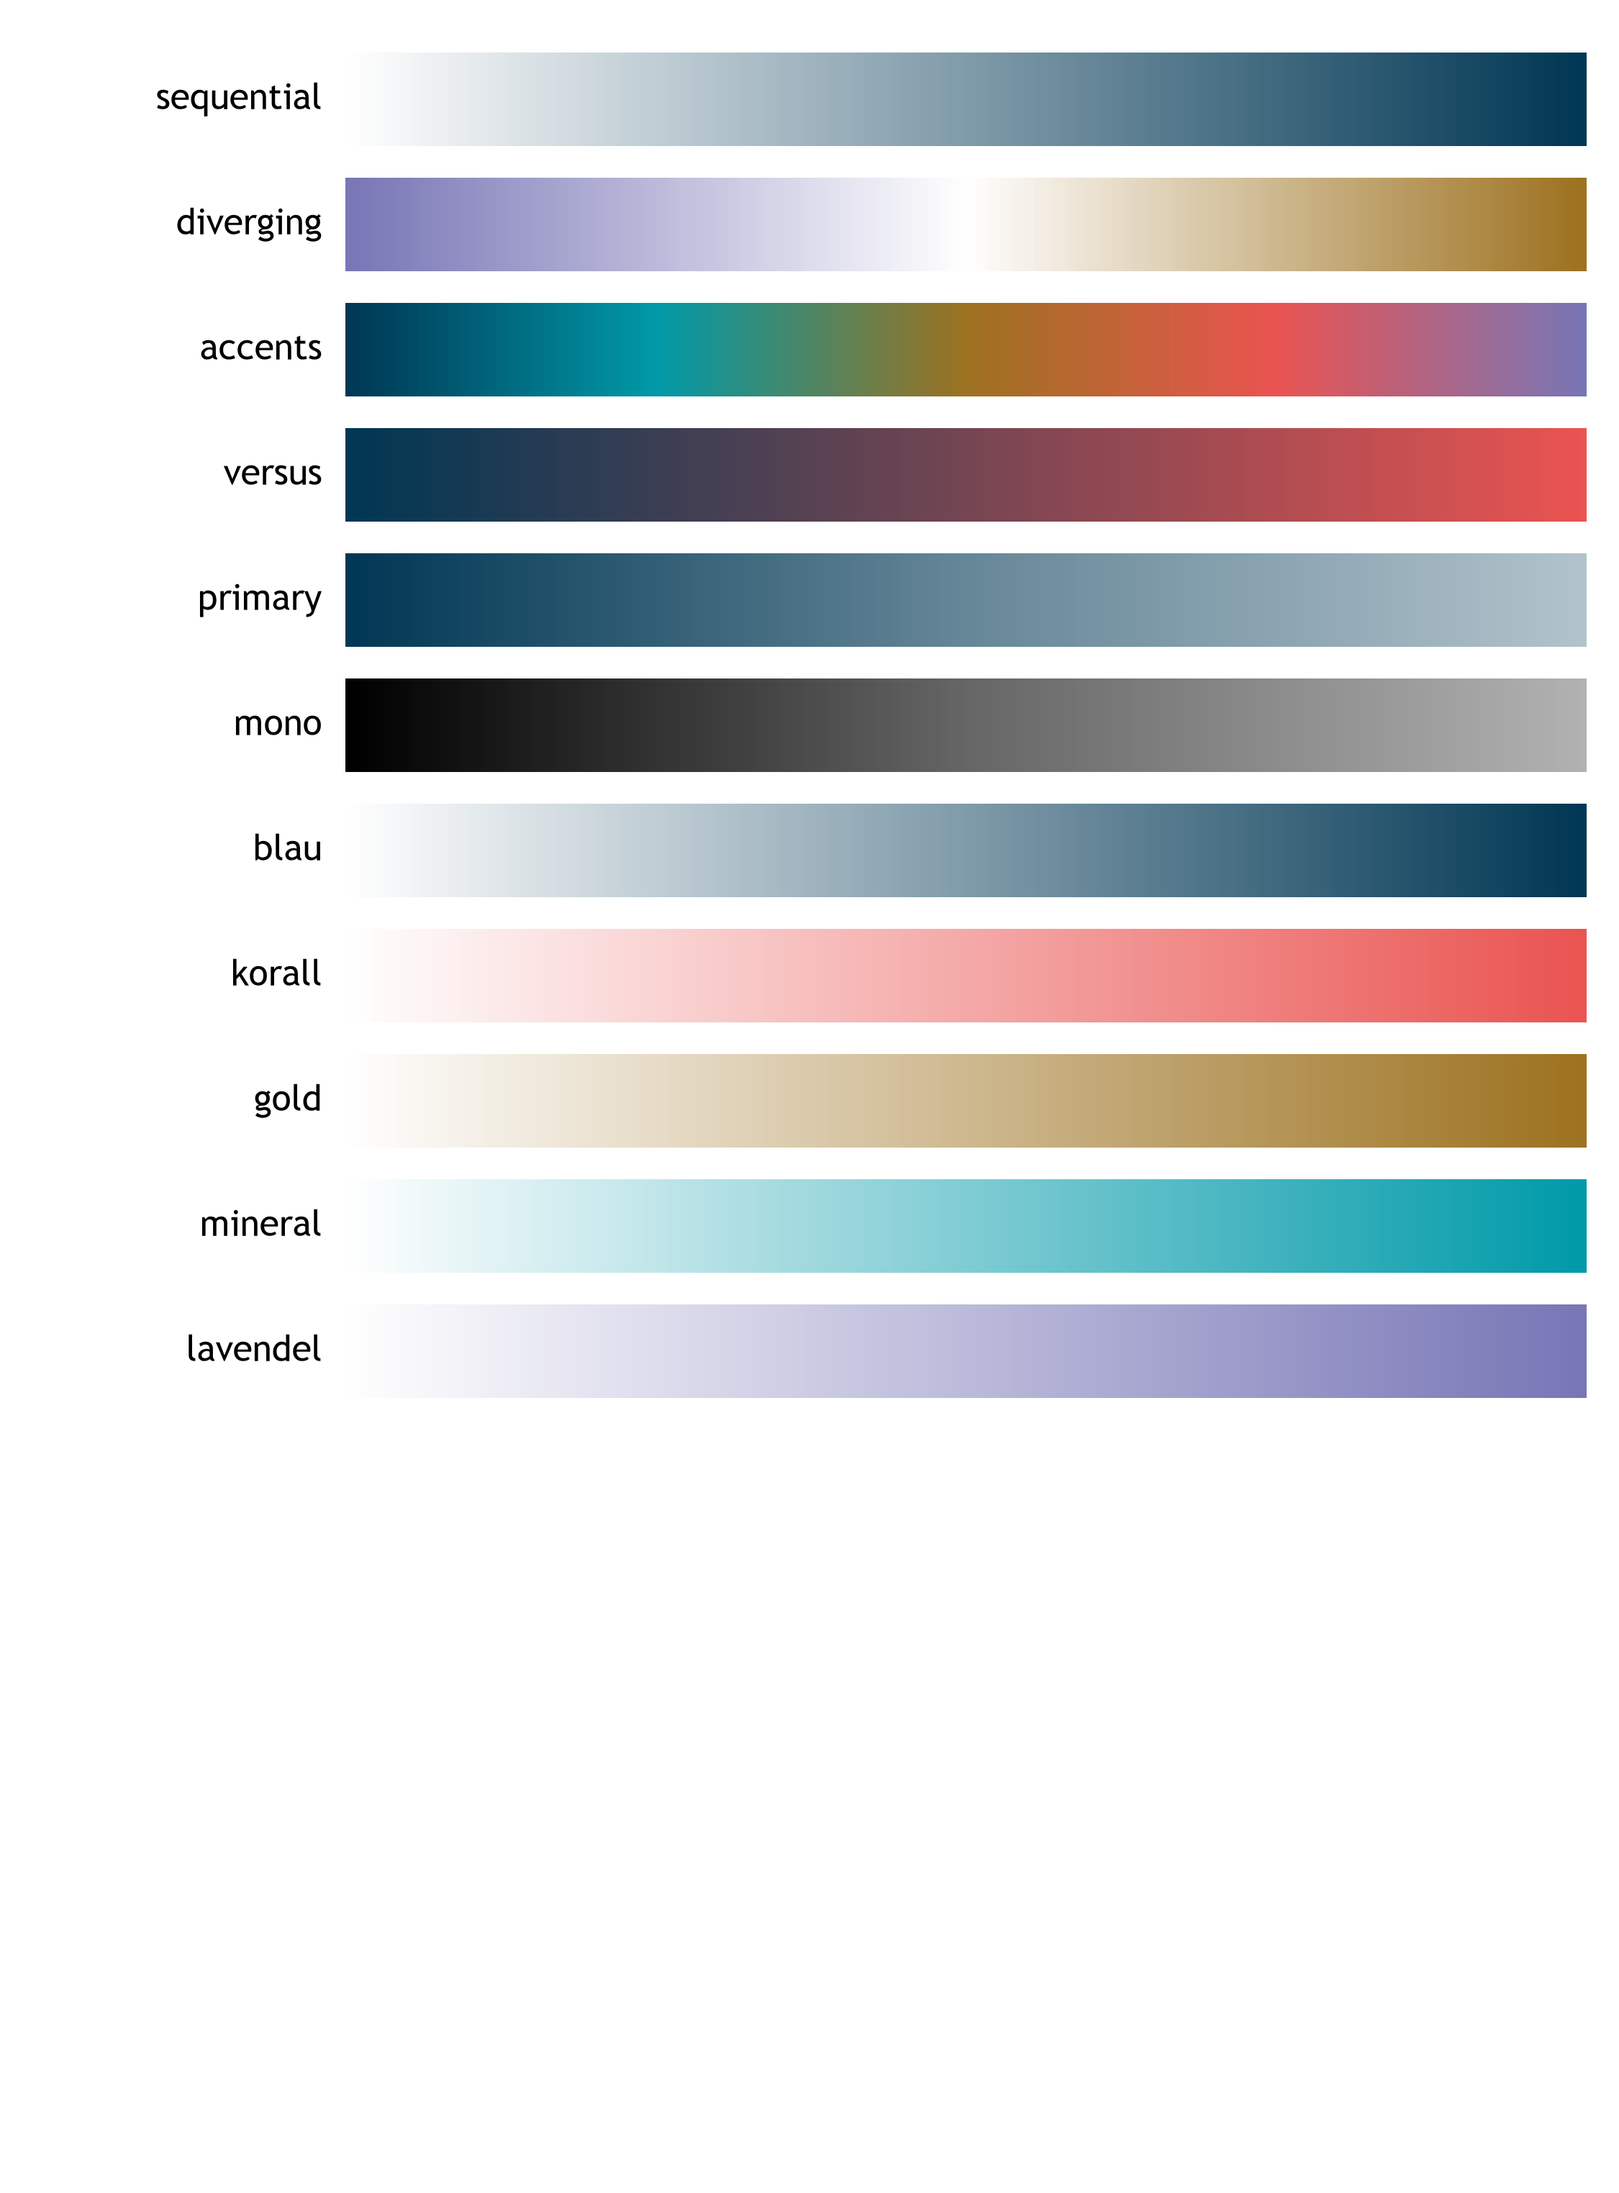
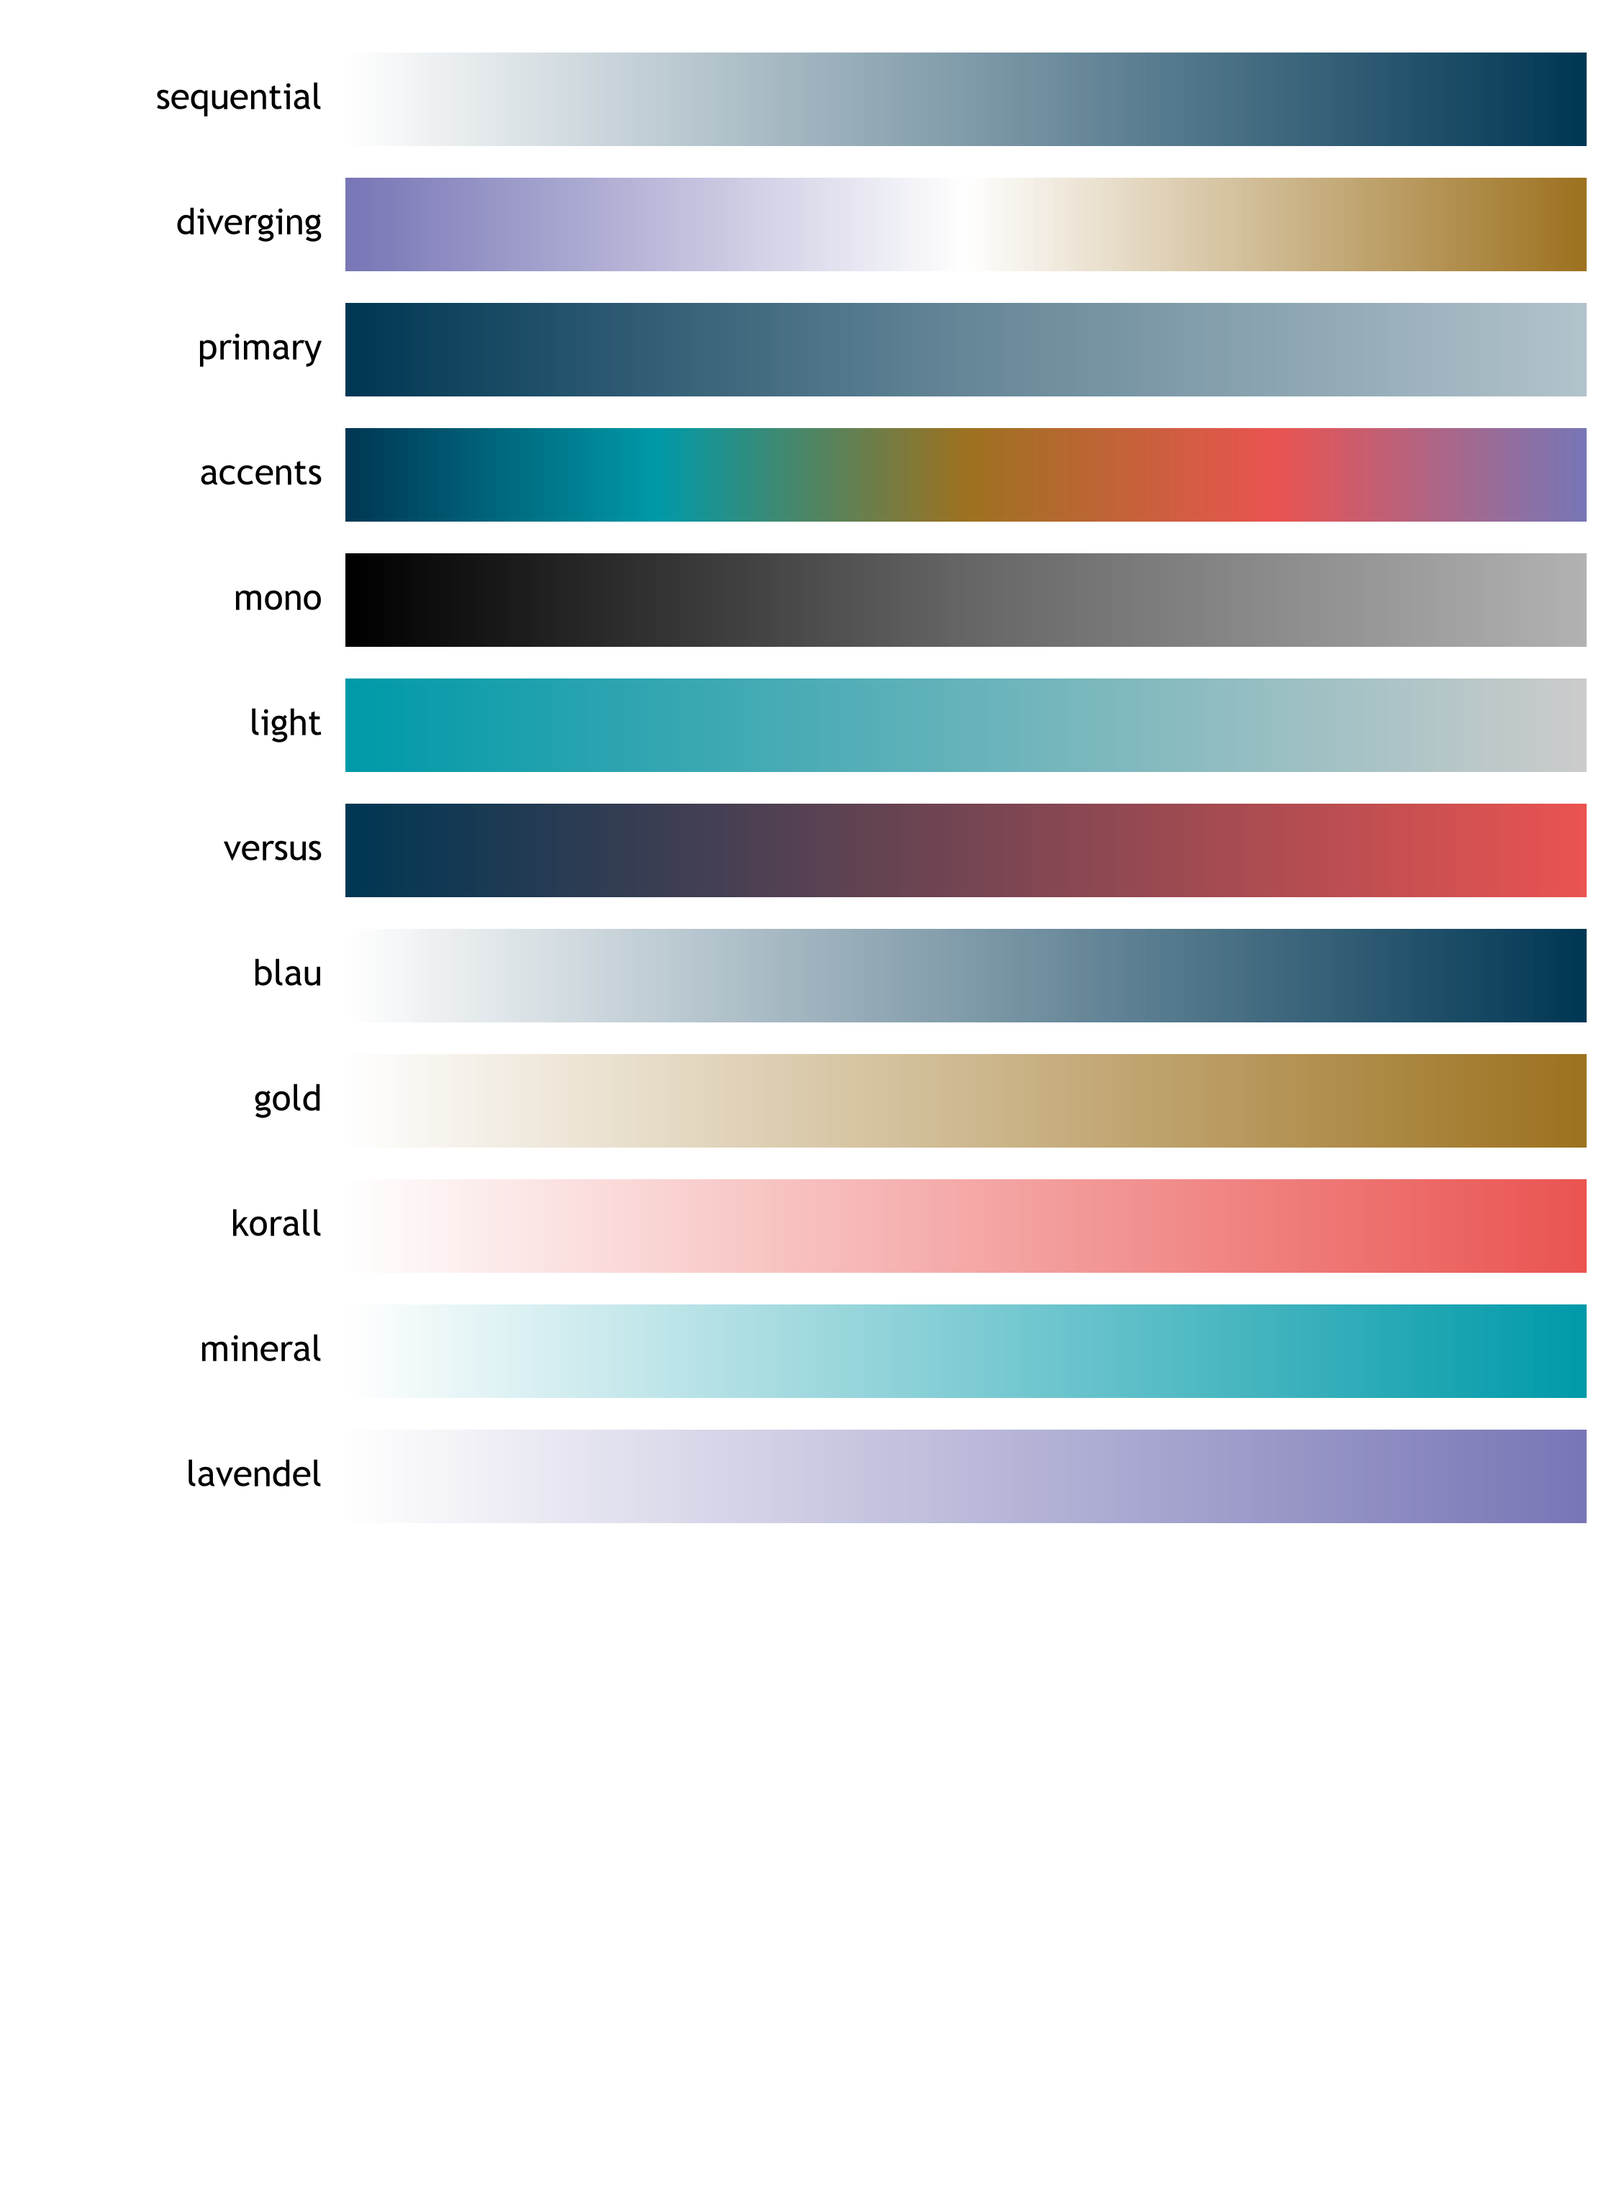
Balanced Charité diverging scale; BIH light palette; cmap preview in README
- Charité diverging role: SECOND_LBLUE → white → ROT (L* 50 / 49) instead
  of SECOND_DBLUE → white → KORALL (15 / 57). Palettes are unchanged.
- BIH: new "light" palette (Mineral vs 20 % black), like Charité's light.
  Palettes listed in the same order as the matching Charité ones
  (accents next to secondary).
- README and docs home show the continuous previews side by side.

diff --git a/charite_plot/brands/bih.py b/charite_plot/brands/bih.py
@@ -40,13 +40,15 @@ BIH_COLORS: dict[str, str] = {
 # One palette per use case. Blau and Weiß are the primary brand colors; Korall, Gold,
 # Mineral and Lavendel are accent colors. Continuous scales are the roles below
 # (``make_cmap("sequential" | "diverging", brand="bih")``).
+# Same order as the matching Charité palettes (accents ↔ secondary).
 BIH_PALETTES: dict[str, list[str]] = {
+    "primary": [BLAU, tint(BLAU, 60), tint(BLAU, 30)],      # ordered levels (L* 21 / 54 / 79)
     # Categorical. Ordered so the first three stay distinct for color-vision deficiencies;
     # Mineral and Lavendel are hard to tell apart for deuteranopes, so Lavendel comes last.
     "accents": [BLAU, MINERAL, GOLD, KORALL, LAVENDEL],
-    "versus":  [BLAU, KORALL],                              # two groups
-    "primary": [BLAU, tint(BLAU, 60), tint(BLAU, 30)],      # ordered levels (L* 21 / 54 / 79)
     "mono":    [BLACK, tint(BLACK, 60), tint(BLACK, 30)],   # greyscale, like Charité's mono
+    "light":   [MINERAL, tint(BLACK, 20)],                  # highlight vs context, like Charité's light
+    "versus":  [BLAU, KORALL],                              # two groups
 }
 # fmt: on
 

diff --git a/examples/palette_preview.py b/examples/palette_preview.py
@@ -28,7 +28,7 @@ SUFFIX = {"charite": "", "bih": "_bih"}
 # Single colors shown as white → color ramps in the continuous preview.
 RAMP_COLORS = {
     "charite": ["prime_blue", "second_dblue", "korall", "mineral", "gruen"],
-    "bih": ["blau", "korall", "gold", "mineral", "lavendel"],
+    "bih": ["blau", "gold", "korall", "mineral", "lavendel"],  # aligned with the Charité rows
 }
 MAX_COLS = max(len(p) for brand in BRANDS.values() for p in brand.palettes.values())
 LABEL_W = 1.6  # inches reserved for the names

diff --git a/charite_plot/brands/charite.py b/charite_plot/brands/charite.py
@@ -101,7 +101,8 @@ CHARITE = Brand(
         text=TEXT_GREY,
         axis=BLACK,
         grid=PRIME_LGREY,
-        diverging=(SECOND_DBLUE, WHITE, KORALL),
+        # SECOND_LBLUE and ROT have the same lightness (L* 50 / 49), so both halves look equally strong.
+        diverging=(SECOND_LBLUE, WHITE, ROT),
         sequential=(WHITE, PRIME_BLUE),
     ),
     font_stack=CHARITE_FONT_STACK,

diff --git a/CHANGELOG.md b/CHANGELOG.md
@@ -13,7 +13,7 @@ and this project adheres to [Semantic Versioning](https://semver.org/spec/v2.0.0
 - `Brand`, `Roles`, `BRANDS`, `get_brand()` and `register_brand()` for defining and registering further brands.
 - `brand=` parameter on `mpl_themes.theme/enable/using`, `altair_themes.theme/enable/using/register` and `make_palette` (name or `Brand` instance; defaults to `"charite"`).
 - `mpl_themes.theme()` and `altair_themes.theme()` as brand-neutral theme builders; `brand` is keyword-only. `theme_charite` is now `functools.partial(theme, brand="charite")` and keeps its positional signature.
-- **BIH brand** (`brand="bih"`, `charite_plot.BIH`, `theme_bih` in `mpl_themes` and `altair_themes`): Berlin Institute of Health at Charité colors, one palette per use case — `accents` (categories, default, ordered for color-vision deficiencies), `versus` (two groups), `primary` (ordered levels: Blau and its tints), `mono` (greyscale) — built from the five diagram colors and their 10 % tints; sequential white → Blau and a lightness-balanced diverging Lavendel → white → Gold scale; Trebuchet MS. Deliberate deviation from the BIH handbook: text and axes are black (titles stay BIH-Blau), as expected by scientific journals.
+- **BIH brand** (`brand="bih"`, `charite_plot.BIH`, `theme_bih` in `mpl_themes` and `altair_themes`): Berlin Institute of Health at Charité colors, one palette per use case — `accents` (categories, default, ordered for color-vision deficiencies), `versus` (two groups), `primary` (ordered levels: Blau and its tints), `mono` (greyscale), `light` (Mineral vs light grey) — built from the five diagram colors and their 10 % tints; sequential white → Blau and a lightness-balanced diverging Lavendel → white → Gold scale; Trebuchet MS. Deliberate deviation from the BIH handbook: text and axes are black (titles stay BIH-Blau), as expected by scientific journals.
 - `tint(color, percent)` to build print-style tint scales (color mixed with white).
 - **Continuous colormaps** (port of the R package's `discrete = FALSE` scales): `make_cmap()` returns a matplotlib colormap through a palette, or from white to a single brand color (like `"Blues"`); `"sequential"` and `"diverging"` give the brand's continuous scales; `make_ramp()` returns the color stops for Altair (`alt.Scale(range=make_ramp(...), interpolate="rgb")`). `examples/palette_preview.py` also renders `cmap_preview*.png`.
 - README and docs show the example plot and palette preview for Charité and BIH side by side; `examples/poly_showcase.py` and `examples/palette_preview.py` generate the images for every brand.
@@ -21,6 +21,7 @@ and this project adheres to [Semantic Versioning](https://semver.org/spec/v2.0.0
 
 ### Changed
 
+- Charité diverging scale (Altair `diverging` range, `make_cmap("diverging")`) is now SECOND_LBLUE → white → ROT instead of SECOND_DBLUE → white → KORALL: both ends have the same lightness (L* 50 / 49 instead of 15 / 57), so both halves look equally strong. The palettes themselves are unchanged.
 - The matplotlib theme sets the default colormap (`image.cmap`) to the brand's sequential scale (Charité: white → PRIME_BLUE), matching the Altair theme's heatmap range. `theme()` registers it with matplotlib as `"<brand>_sequential"`.
 - **Requires Python ≥ 3.11** (3.9 and 3.10 are end-of-life).
 - Development tooling based on cookiecutter-uv: uv, ruff, ty, deptry, pre-commit, tox-uv. Documentation is built with Zensical instead of MkDocs and deployed on release; packages are published to PyPI via trusted publishing.
@@ -43,6 +44,7 @@ and this project adheres to [Semantic Versioning](https://semver.org/spec/v2.0.0
 
 ### Changed
 
+- Charité diverging scale (Altair `diverging` range, `make_cmap("diverging")`) is now SECOND_LBLUE → white → ROT instead of SECOND_DBLUE → white → KORALL: both ends have the same lightness (L* 50 / 49 instead of 15 / 57), so both halves look equally strong. The palettes themselves are unchanged.
 - **Unified API across backends.** The matplotlib activate function was renamed `apply_theme(params)` → `enable(**kwargs)`, and `using()` now takes theme keyword arguments instead of a pre-built dict — matching the Altair backend. Migrate `apply_theme(theme_charite(palette="x"))` to `enable(palette="x")` and `using(theme_charite(palette="x"))` to `using(palette="x")`. `theme_charite()` still returns a plain dict if you prefer to apply it manually via `mpl.rcParams.update()`.
 
 ### Removed
@@ -58,6 +60,7 @@ and this project adheres to [Semantic Versioning](https://semver.org/spec/v2.0.0
 
 ### Changed
 
+- Charité diverging scale (Altair `diverging` range, `make_cmap("diverging")`) is now SECOND_LBLUE → white → ROT instead of SECOND_DBLUE → white → KORALL: both ends have the same lightness (L* 50 / 49 instead of 15 / 57), so both halves look equally strong. The palettes themselves are unchanged.
 - Font-size ramp is now shared between both backends: labels scale at 1× and legend text at 0.8× the base size. Altair legend labels are slightly smaller and axis labels slightly larger as a result.
 
 ## [0.1.1] - 2026-06-13

diff --git a/docs/palettes.md b/docs/palettes.md
@@ -100,14 +100,15 @@ There is one palette per use case:
 
 | Use case | Name | Notes |
 |----------|------|-------|
-| Categories (default) | `accents` | Blau and the four accent colors, ordered for color-vision deficiencies: the first three stay distinct for all types. Mineral and Lavendel are hard to tell apart for deuteranopes, so with five categories add markers or direct labels. |
-| Two groups | `versus` | Blau vs Korall: distinct in lightness and hue, also in greyscale. |
 | Ordered levels | `primary` | Blau at 100 / 60 / 30 % (BIH-Blau and Weiß are the primary brand colors). |
+| Categories (default) | `accents` | Blau and the four accent colors, ordered for color-vision deficiencies: the first three stay distinct for all types. Mineral and Lavendel are hard to tell apart for deuteranopes, so with five categories add markers or direct labels. |
 | Greyscale | `mono` | Black tints, following the theme's black text and axes. |
+| Highlight vs context | `light` | Mineral vs light grey (20 % black), like Charité's `light`. |
+| Two groups | `versus` | Blau vs Korall: distinct in lightness and hue, also in greyscale. |
 | Continuous, sequential | `make_cmap("sequential", brand="bih")` | White → Blau. The theme's default colormap. |
 | Continuous, diverging | `make_cmap("diverging", brand="bih")` | Lavendel → white → Gold. Both ends have the same lightness, so both halves look equally strong. |
 
-The discrete palettes only use the five BIH diagram colors and their tints in 10 % steps, as the BIH handbook requires.
+The discrete palettes only use the five BIH diagram colors and their tints in 10 % steps, as the BIH handbook requires, plus black tints for greys. They are listed in the same order as the matching Charité palettes.
 
 ```python
 from charite_plot import BIH, make_palette
@@ -115,6 +116,13 @@ from charite_plot import BIH, make_palette
 BIH.palettes["accents"]  # list of hex strings
 make_palette("primary", n=5, brand="bih")
 ```
+
+## primary
+<div class="palette-strip">
+  <div style="background:#003754"></div>
+  <div style="background:#668798"></div>
+  <div style="background:#b2c3cc"></div>
+</div>
 
 ## accents
 <div class="palette-strip">
@@ -125,24 +133,23 @@ make_palette("primary", n=5, brand="bih")
   <div style="background:#7876b6"></div>
 </div>
 
-## versus
-<div class="palette-strip">
-  <div style="background:#003754"></div>
-  <div style="background:#ea5451"></div>
-</div>
-
-## primary
-<div class="palette-strip">
-  <div style="background:#003754"></div>
-  <div style="background:#668798"></div>
-  <div style="background:#b2c3cc"></div>
-</div>
-
 ## mono
 <div class="palette-strip">
   <div style="background:#000000"></div>
   <div style="background:#666666"></div>
   <div style="background:#b2b2b2"></div>
+</div>
+
+## light
+<div class="palette-strip">
+  <div style="background:#009aa9"></div>
+  <div style="background:#cccccc"></div>
+</div>
+
+## versus
+<div class="palette-strip">
+  <div style="background:#003754"></div>
+  <div style="background:#ea5451"></div>
 </div>
 
 ---

diff --git a/docs/altair.md b/docs/altair.md
@@ -56,7 +56,7 @@ The theme sets all Vega-Lite color ranges from the selected palette:
 |-------|-------|--------|
 | `category` | Categorical encodings | palette colors |
 | `ordinal` | Ordinal encodings | palette colors |
-| `diverging` | Diverging scales (e.g. `domainMid=0`) | `SECOND_DBLUE → white → KORALL` |
+| `diverging` | Diverging scales (e.g. `domainMid=0`) | `SECOND_LBLUE → white → ROT` |
 | `heatmap` | Sequential heatmaps | `white → PRIME_BLUE` |
 | `ramp` | Sequential ramp | `white → PRIME_BLUE` |
 
@@ -78,7 +78,7 @@ alt.Chart(df).mark_line().encode(
 
 ### Diverging color scale
 
-The `diverging` range (`SECOND_DBLUE → white → KORALL`) is used automatically when `domainMid` is set:
+The `diverging` range (`SECOND_LBLUE → white → ROT`) is used automatically when `domainMid` is set:
 
 ```python
 alt.Chart(df).mark_point().encode(

diff --git a/README.md b/README.md
@@ -38,6 +38,16 @@ Preview the available colour palettes of each brand.
 </tr>
 </table>
 
+Continuous colormaps (`make_cmap`): each brand's sequential and diverging scale, every palette, and white → colour.
+
+<table>
+<tr><th>Charité</th><th>BIH</th></tr>
+<tr>
+<td><img src="https://raw.githubusercontent.com/pedramezani/charite-plot/main/docs/assets/cmap_preview.png" width="100%"/></td>
+<td><img src="https://raw.githubusercontent.com/pedramezani/charite-plot/main/docs/assets/cmap_preview_bih.png" width="100%"/></td>
+</tr>
+</table>
+
 ## Quick start
 
 ### Matplotlib

diff --git a/docs/index.md b/docs/index.md
@@ -22,6 +22,16 @@ Preview the available colour palettes of each brand.
 </tr>
 </table>
 
+Continuous colormaps (`make_cmap`): each brand's sequential and diverging scale, every palette, and white → colour.
+
+<table>
+<tr><th>Charité</th><th>BIH</th></tr>
+<tr>
+<td><img src="assets/cmap_preview.png" width="100%"/></td>
+<td><img src="assets/cmap_preview_bih.png" width="100%"/></td>
+</tr>
+</table>
+
 ---
 
 ## Quick start
